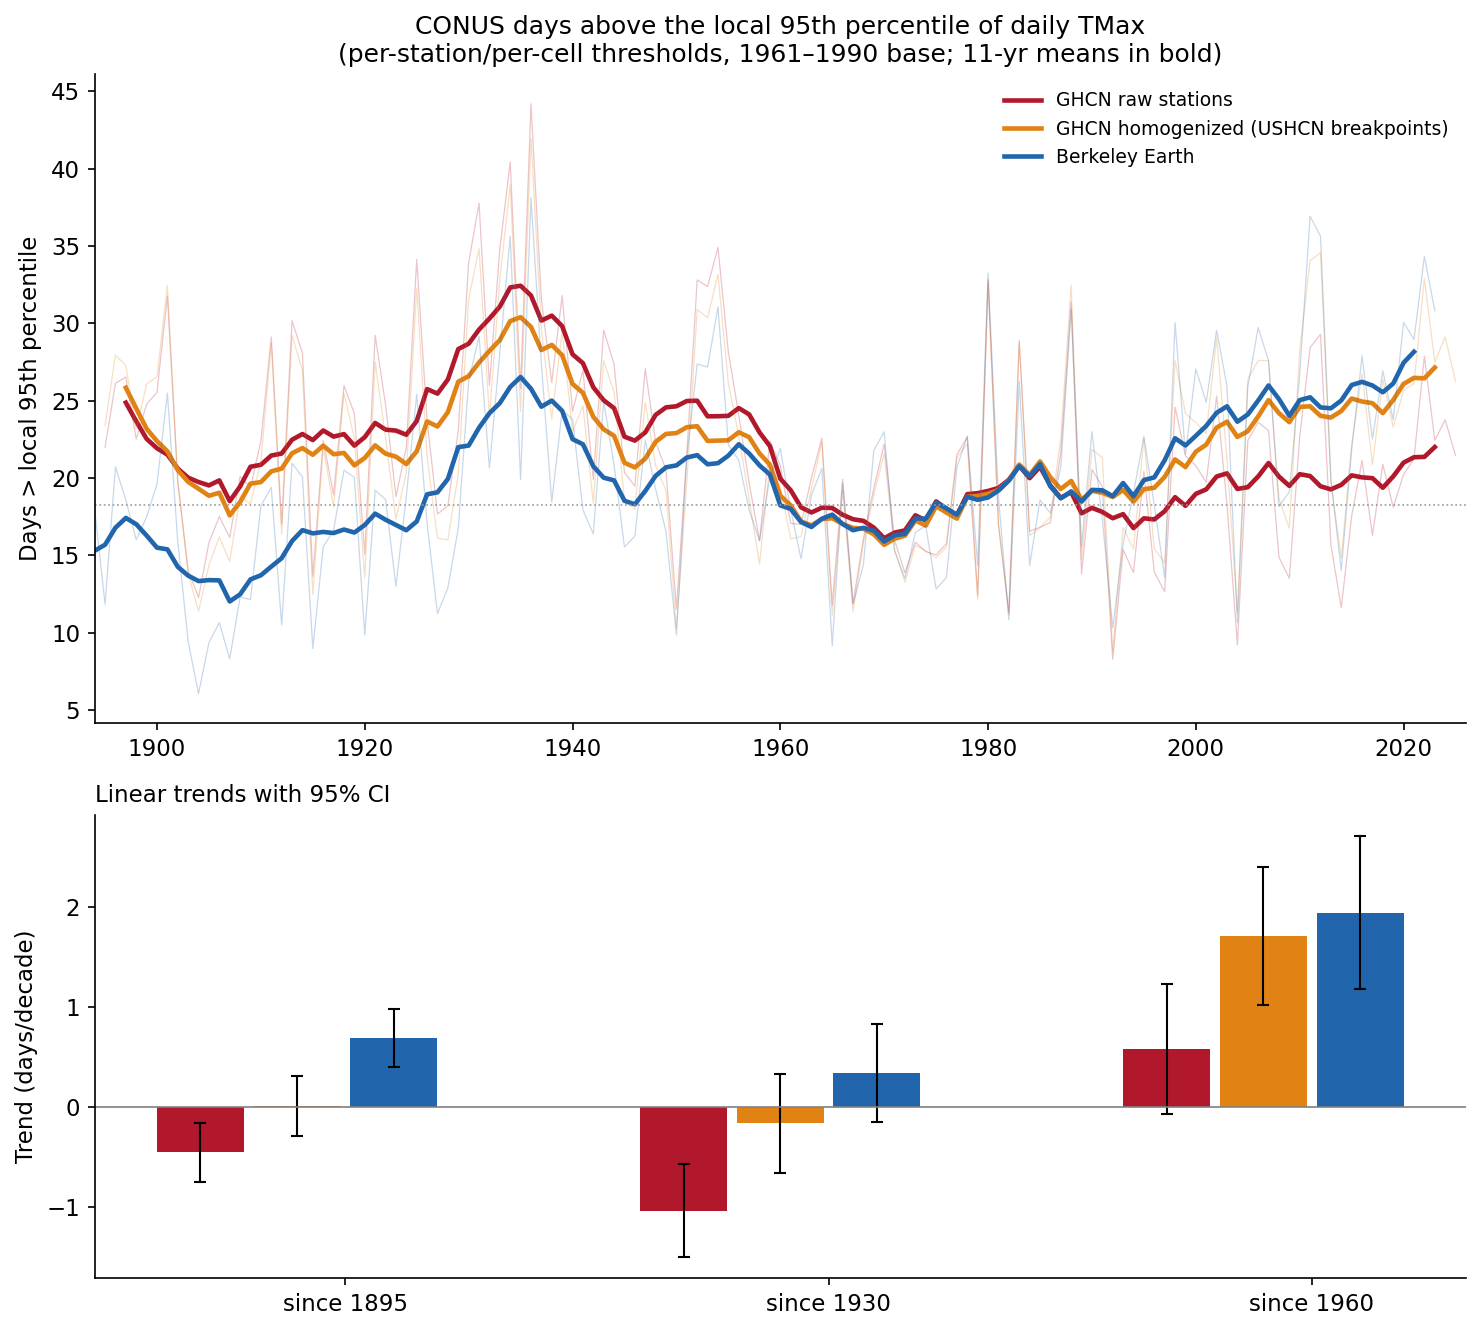
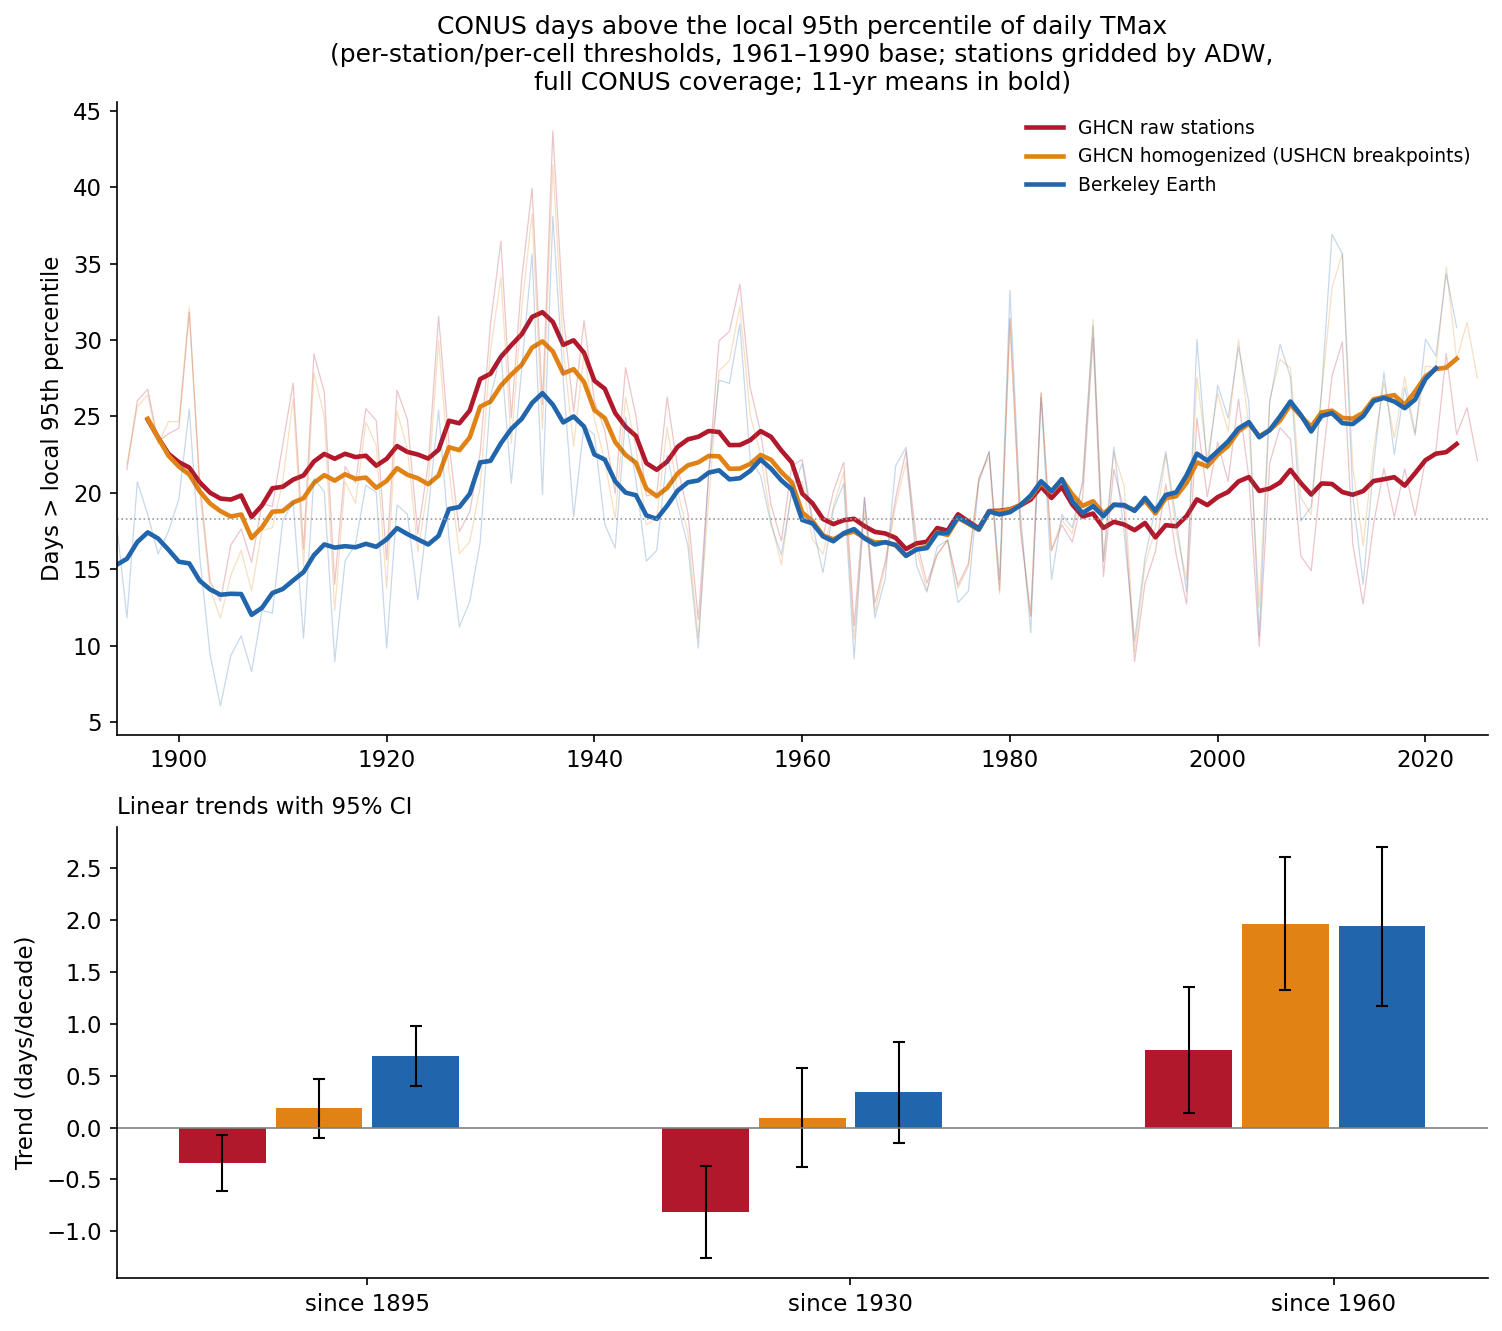
p95_comparison: ADW gridding (HadEX3-style) gives full CONUS station coverage
Empirical DLS of annual p95-count anomalies ~1250 km (consistent with
counts behaving as anomalies once climatology is absorbed into the local
threshold). Modified Shepard ADW (distance + angular isolation, m=4)
onto the 1-deg grid covers 819/819 CONUS cells every year 1895-2025.
ADW homogenized vs Berkeley Earth trends since 1960: +1.97 vs +1.94
days/decade; raw remains negative since 1895/1930.

diff --git a/p95_comparison/scripts/aggregate_stations_adw.py b/p95_comparison/scripts/aggregate_stations_adw.py
@@ -1,0 +1,120 @@
+"""Angular-distance-weighted (ADW) gridding of station p95 counts to the 1-deg
+CONUS grid, following the modified Shepard approach of HadEX3/GHCNDEX
+(New et al 2000; Donat et al 2013; Dunn et al 2020):
+
+  w_k = [exp(-d_k / DLS)]^m * (1 + A_k),  m = 4
+  A_k = sum_l w_l (1 - cos(theta_kl)) / sum_l w_l   (angular isolation)
+
+DLS = 1250 km (empirical e-folding of annual p95-count anomaly correlations).
+Cells need >=3 contributing stations within the DLS, else masked that year.
+Same matched USHCN station set and screens as the 2x2 aggregation.
+"""
+import numpy as np
+import pandas as pd
+import xarray as xr
+
+BASE = "/Users/hausfath/Desktop/Climate Science/The Climate Brink/US hot days/p95_comparison"
+DLS_KM = 1250.0
+M_EXP = 4.0
+MIN_STN = 3
+Y0, Y1 = 1895, 2025
+NY = Y1 - Y0 + 1
+
+# ---------- stations (same screens as 2x2 version) ----------
+c = pd.read_csv(f"{BASE}/results/station_p95_counts.csv")
+meta = pd.read_fwf(f"{BASE}/data/ushcn/ushcn-v2.5-stations.txt", header=None,
+                   colspecs=[(0, 11), (12, 20), (21, 30)],
+                   names=["uid", "lat", "lon"])
+meta["id"] = "USC00" + meta.uid.str[-6:]
+c = c[(c.year >= Y0) & (c.year <= Y1) & c.ushcn]
+c["valid"] = c.warm_days >= 172
+hb = c.groupby("id").apply(lambda g: g.n_raw.notna().any() and g.n_homog.notna().any(),
+                           include_groups=False)
+nv = c[c.valid & c.id.isin(hb[hb].index)].groupby("id").year.nunique()
+keep = nv[nv >= 0.85 * NY].index
+df = c[c.id.isin(keep) & c.valid].merge(meta[["id", "lat", "lon"]], on="id")
+df = df[df.n_raw.notna() & df.n_homog.notna()]
+df["n_raw"] = df.n_raw * 365.25 / df.nd_raw
+df["n_homog"] = df.n_homog * 365.25 / df.nd_homog
+sids = sorted(df.id.unique())
+sidx = {s: k for k, s in enumerate(sids)}
+S = len(sids)
+print(f"stations: {S}")
+slat = meta.set_index("id").loc[sids, "lat"].values
+slon = meta.set_index("id").loc[sids, "lon"].values
+
+# station-year matrices
+years = np.arange(Y0, Y1 + 1)
+NR = np.full((NY, S), np.nan)
+NH = np.full((NY, S), np.nan)
+for _, r in df.iterrows():
+    NR[int(r.year) - Y0, sidx[r.id]] = r.n_raw
+    NH[int(r.year) - Y0, sidx[r.id]] = r.n_homog
+
+# ---------- grid geometry ----------
+mask = xr.open_dataset(f"{BASE}/../hot_days_95F/data/conus_mask_1deg.nc").in_conus
+glat, glon = np.meshgrid(mask.latitude.values, mask.longitude.values, indexing="ij")
+gm = mask.values > 0
+cells = np.column_stack([glat[gm], glon[gm]])
+G = len(cells)
+print(f"grid cells: {G}")
+
+def hav_km(la1, lo1, la2, lo2):
+    la1, lo1, la2, lo2 = map(np.radians, [la1, lo1, la2, lo2])
+    return 6371 * 2 * np.arcsin(np.sqrt(
+        np.sin((la2 - la1) / 2) ** 2 +
+        np.cos(la1) * np.cos(la2) * np.sin((lo2 - lo1) / 2) ** 2))
+
+# distance and bearing from each cell to each station
+D = np.zeros((G, S))
+TH = np.zeros((G, S))
+for g in range(G):
+    D[g] = hav_km(cells[g, 0], cells[g, 1], slat, slon)
+    dlon = np.radians(slon - cells[g, 1])
+    y = np.sin(dlon) * np.cos(np.radians(slat))
+    x = (np.cos(np.radians(cells[g, 0])) * np.sin(np.radians(slat)) -
+         np.sin(np.radians(cells[g, 0])) * np.cos(np.radians(slat)) * np.cos(dlon))
+    TH[g] = np.arctan2(y, x)
+W0 = np.exp(-M_EXP * D / DLS_KM)
+W0[D > DLS_KM] = 0.0
+
+def grid_year(vals):
+    """ADW field for one year's station values (with NaNs)."""
+    ok = np.isfinite(vals)
+    field = np.full(G, np.nan)
+    for g in range(G):
+        w = W0[g] * ok
+        use = w > 1e-6
+        if use.sum() < MIN_STN:
+            continue
+        wk = w[use]
+        th = TH[g][use]
+        # angular isolation term
+        A = np.empty(len(wk))
+        sw = wk.sum()
+        for k in range(len(wk)):
+            A[k] = (wk * (1 - np.cos(th - th[k]))).sum() / sw
+        wk = wk * (1 + A)
+        field[g] = (wk * vals[use]).sum() / wk.sum()
+    return field
+
+wcell = np.cos(np.deg2rad(cells[:, 0]))
+rows = []
+for i, y in enumerate(years):
+    fr = grid_year(NR[i])
+    fh = grid_year(NH[i])
+    okr = np.isfinite(fr)
+    rows.append({"year": int(y),
+                 "ghcn_raw_adw": float(np.nansum(fr * wcell) / wcell[okr].sum()),
+                 "ghcn_homog_adw": float(np.nansum(fh * wcell) / wcell[np.isfinite(fh)].sum()),
+                 "cells_covered": int(okr.sum())})
+    if y % 20 == 0:
+        print(f"  {y}: {okr.sum()}/{G} cells", flush=True)
+
+res = pd.DataFrame(rows).set_index("year")
+res.round(3).to_csv(f"{BASE}/results/conus_p95_stations_adw.csv")
+print(f"\ncoverage: min {res.cells_covered.min()}/{G} cells")
+for v in ["ghcn_raw_adw", "ghcn_homog_adw"]:
+    s = res[v]
+    print(f"{v}: 1930s={s.loc[1930:1939].mean():.2f}  1961-90={s.loc[1961:1990].mean():.2f}  "
+          f"2000-23={s.loc[2000:2023].mean():.2f}")

diff --git a/p95_comparison/scripts/trends_compare.py b/p95_comparison/scripts/trends_compare.py
@@ -13,7 +13,8 @@ BASE = "/Users/hausfath/Desktop/Climate Science/The Climate Brink/US hot days/p9
 plt.rcParams.update({"font.size": 11, "axes.spines.top": False,
                      "axes.spines.right": False, "figure.dpi": 150})
 
-stn = pd.read_csv(f"{BASE}/results/conus_p95_stations.csv").set_index("year")
+stn = pd.read_csv(f"{BASE}/results/conus_p95_stations_adw.csv").set_index("year")
+stn22 = pd.read_csv(f"{BASE}/results/conus_p95_stations.csv").set_index("year")
 be = pd.read_csv(f"{BASE}/results/be_tx95p_annual.csv").set_index("year")["CONUS"]
 try:
     era = pd.read_csv(f"{BASE}/results/conus_p95_era5.csv").set_index("year")["era5"]
@@ -22,8 +23,8 @@ except FileNotFoundError:
     print("NOTE: ERA5 series not available yet")
 
 series = {
-    "GHCN raw stations": stn.ghcn_raw,
-    "GHCN homogenized (USHCN breakpoints)": stn.ghcn_homog,
+    "GHCN raw stations": stn.ghcn_raw_adw,
+    "GHCN homogenized (USHCN breakpoints)": stn.ghcn_homog_adw,
     "Berkeley Earth": be.dropna(),
     "ERA5": era.dropna(),
 }
@@ -70,8 +71,8 @@ for name, s in series.items():
 ax.axhline(18.26, color="0.6", lw=0.8, ls=":")
 ax.set_ylabel("Days > local 95th percentile")
 ax.set_title("CONUS days above the local 95th percentile of daily TMax\n"
-             "(per-station/per-cell thresholds, 1961–1990 base; 11-yr means in bold)",
-             fontsize=12)
+             "(per-station/per-cell thresholds, 1961–1990 base; stations gridded by ADW,\n"
+             "full CONUS coverage; 11-yr means in bold)", fontsize=12)
 ax.legend(frameon=False, fontsize=9)
 ax.set_xlim(1894, 2026)
 